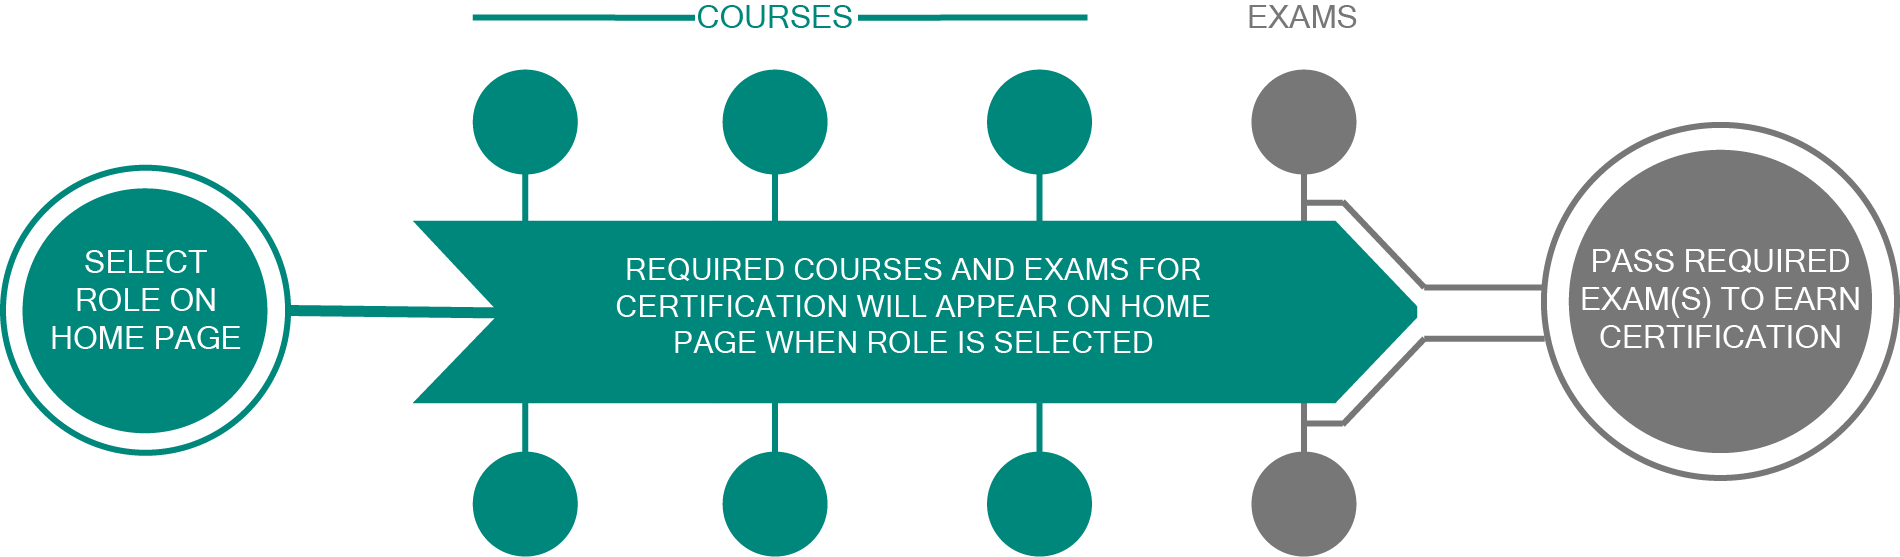
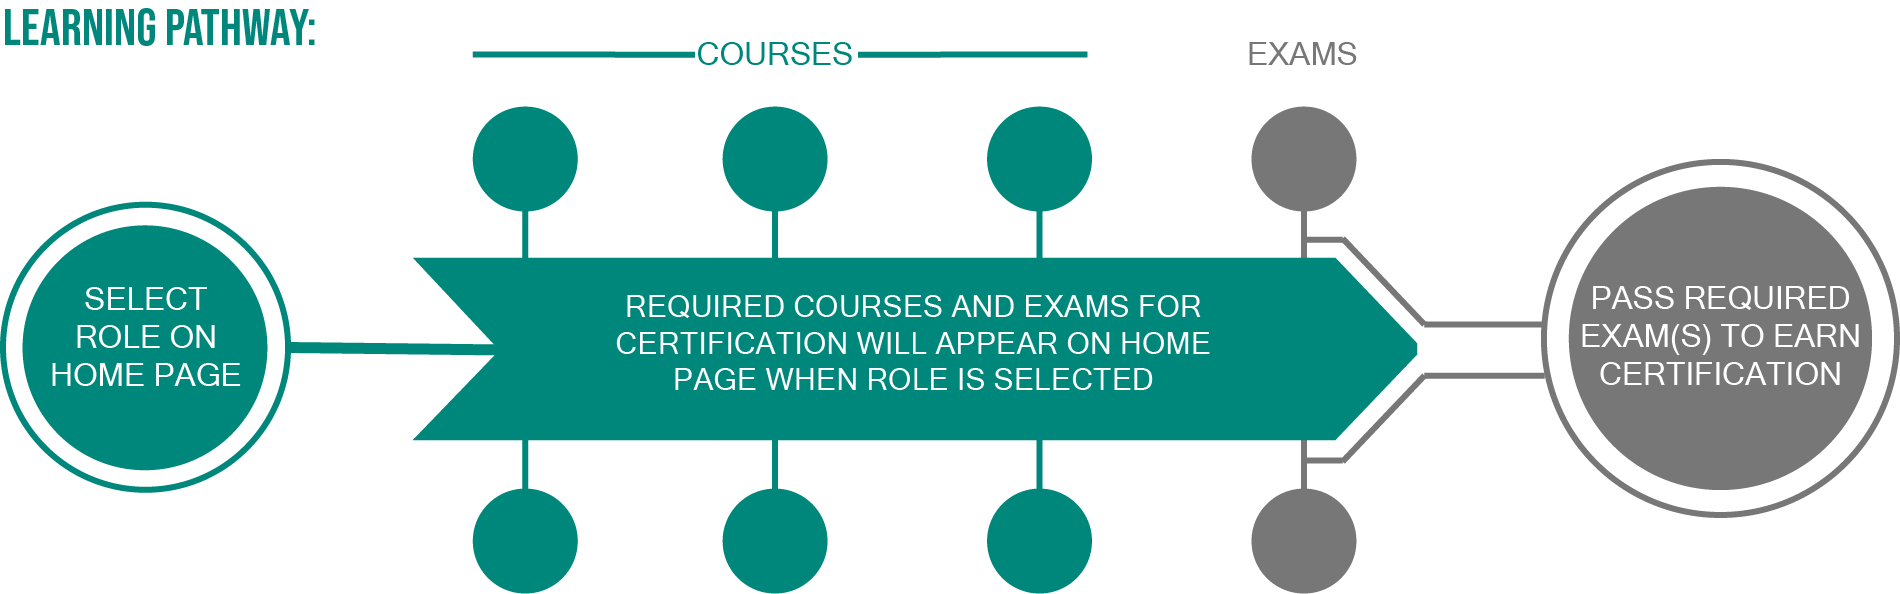
[MERCK-67] new markup edits

diff --git a/lms/templates/index.html b/lms/templates/index.html
@@ -64,13 +64,17 @@ from openedx.core.djangolib.markup import HTML, Text
           <li class="promobox__list-item">${_("Click to enroll in a course.")}</li>
           <li class="promobox__list-item">${_("Start learning today and enhance your professional credentials.")}</li>
         </ol>
-        <p class="promobox__text">${_("Take the certification exam after completing all the classes in your pathway to begin to earn a Microsoft role-based certification.")}
-          <br>
-          <strong>${_("Categories that lead to a certificate are marked with a double asterisk")}<sup>**</sup></strong></p>
+        <p class="promobox__text">${_("Take the certification exam after completing all the classes in your pathway to begin to earn a Microsoft role-based certification.")}</p>
         <p class="promobox__text"><strong>${_("For more details, explore the ")}<a class="promobox__link" href="https://collaboration.merck.com/sites/support/Pages/Office-365-Tech-Hub.aspx#/">${_("Tech Hub FAQ.")}</a></strong></p>
         <img class="promobox__image" src="/static/${settings.DEFAULT_SITE_THEME}/images/generic_pathway-no_white.png" alt="GENERIC PATHWAY Merck">
         <img class="promobox__image" src="/static/${settings.DEFAULT_SITE_THEME}/images/example_learning_pathway-no_white.png" alt="EXAMPLE PATHWAY Merck">
-        <p class="promobox__text promobox__text_colored">${_("Click on a category below to start learning today.")}</p>
+        <p class="promobox__text promobox__text_colored">
+          ${_("Click on a category below to start learning today.")}
+          <br>
+          <span>
+            ${_("Categories that lead to a certificate are marked with a double asterisk")} (<sup>**</sup>).
+          </span>
+        </p>
       </div>
 
         % if not categories:

diff --git a/lms/static/sass/base/_override.scss b/lms/static/sass/base/_override.scss
@@ -1387,8 +1387,8 @@ body .wmd-prompt-dialog .btn-brand:focus {
     }
 
     .promobox__image {
-        max-width: 80%;
-        margin: 30px auto 20px;
+        max-width: 70%;
+        margin: 30px 0 20px;
         @media screen and (max-width: 760px) {
             max-width: 100%;
         }
@@ -5444,6 +5444,8 @@ section.outside-app {
 }
 
 .promobox__text_note {
+    font-size: 18px;
+    font-weight: 700;
     box-sizing: border-box;
     padding: 0 15px;
     margin: 0 auto 20px;
@@ -5455,6 +5457,10 @@ section.outside-app {
     font-size: 30px;
     margin: 0 0 20px;
     font-weight: 700;
+
+    span {
+        font-size: 18px;
+    }
 }
 
 .promobox__link {
